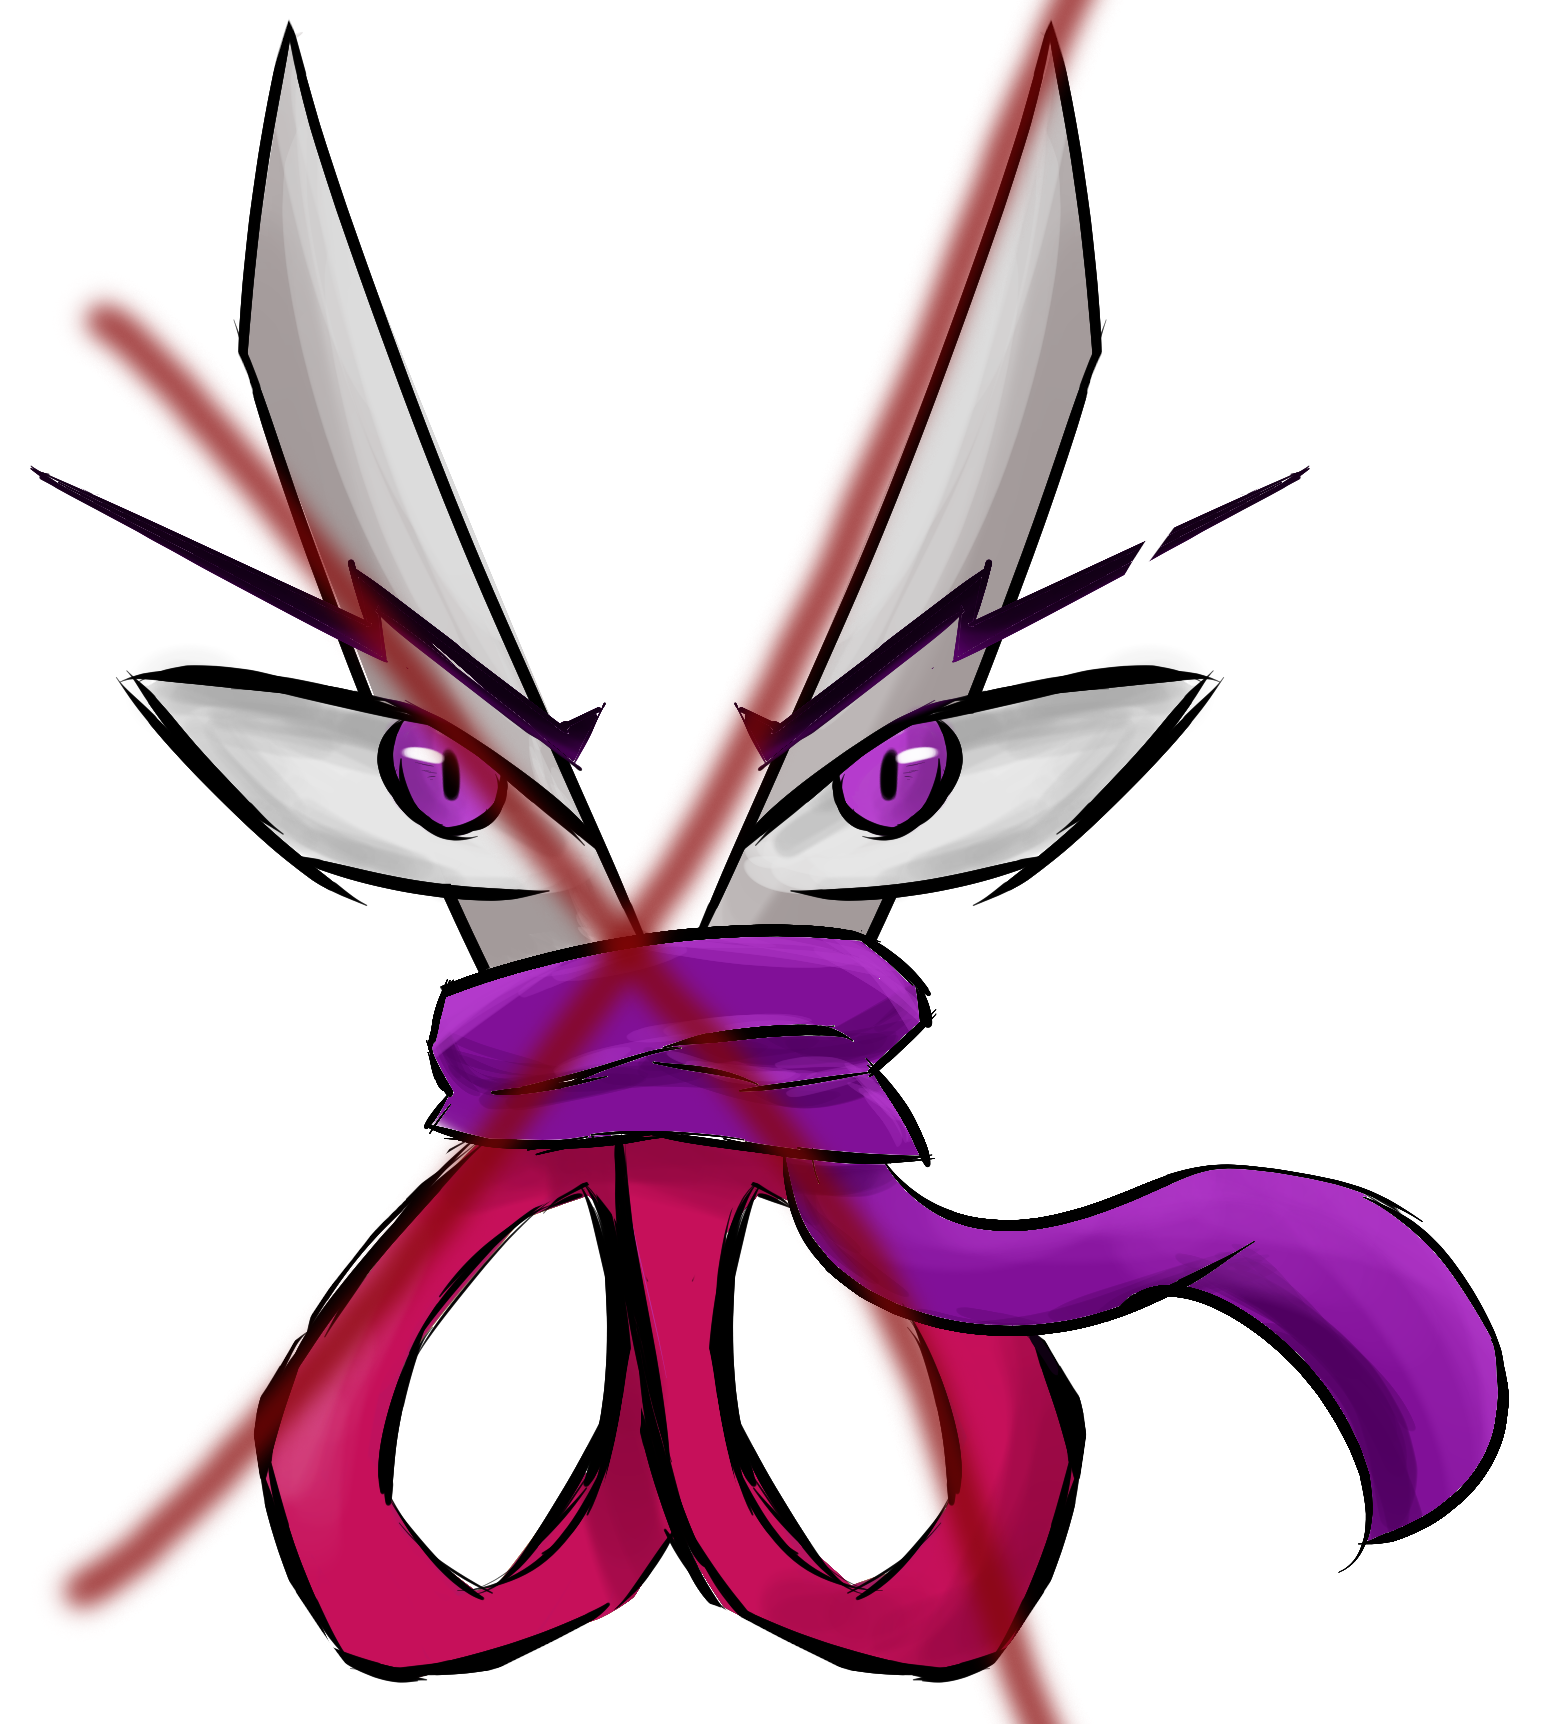
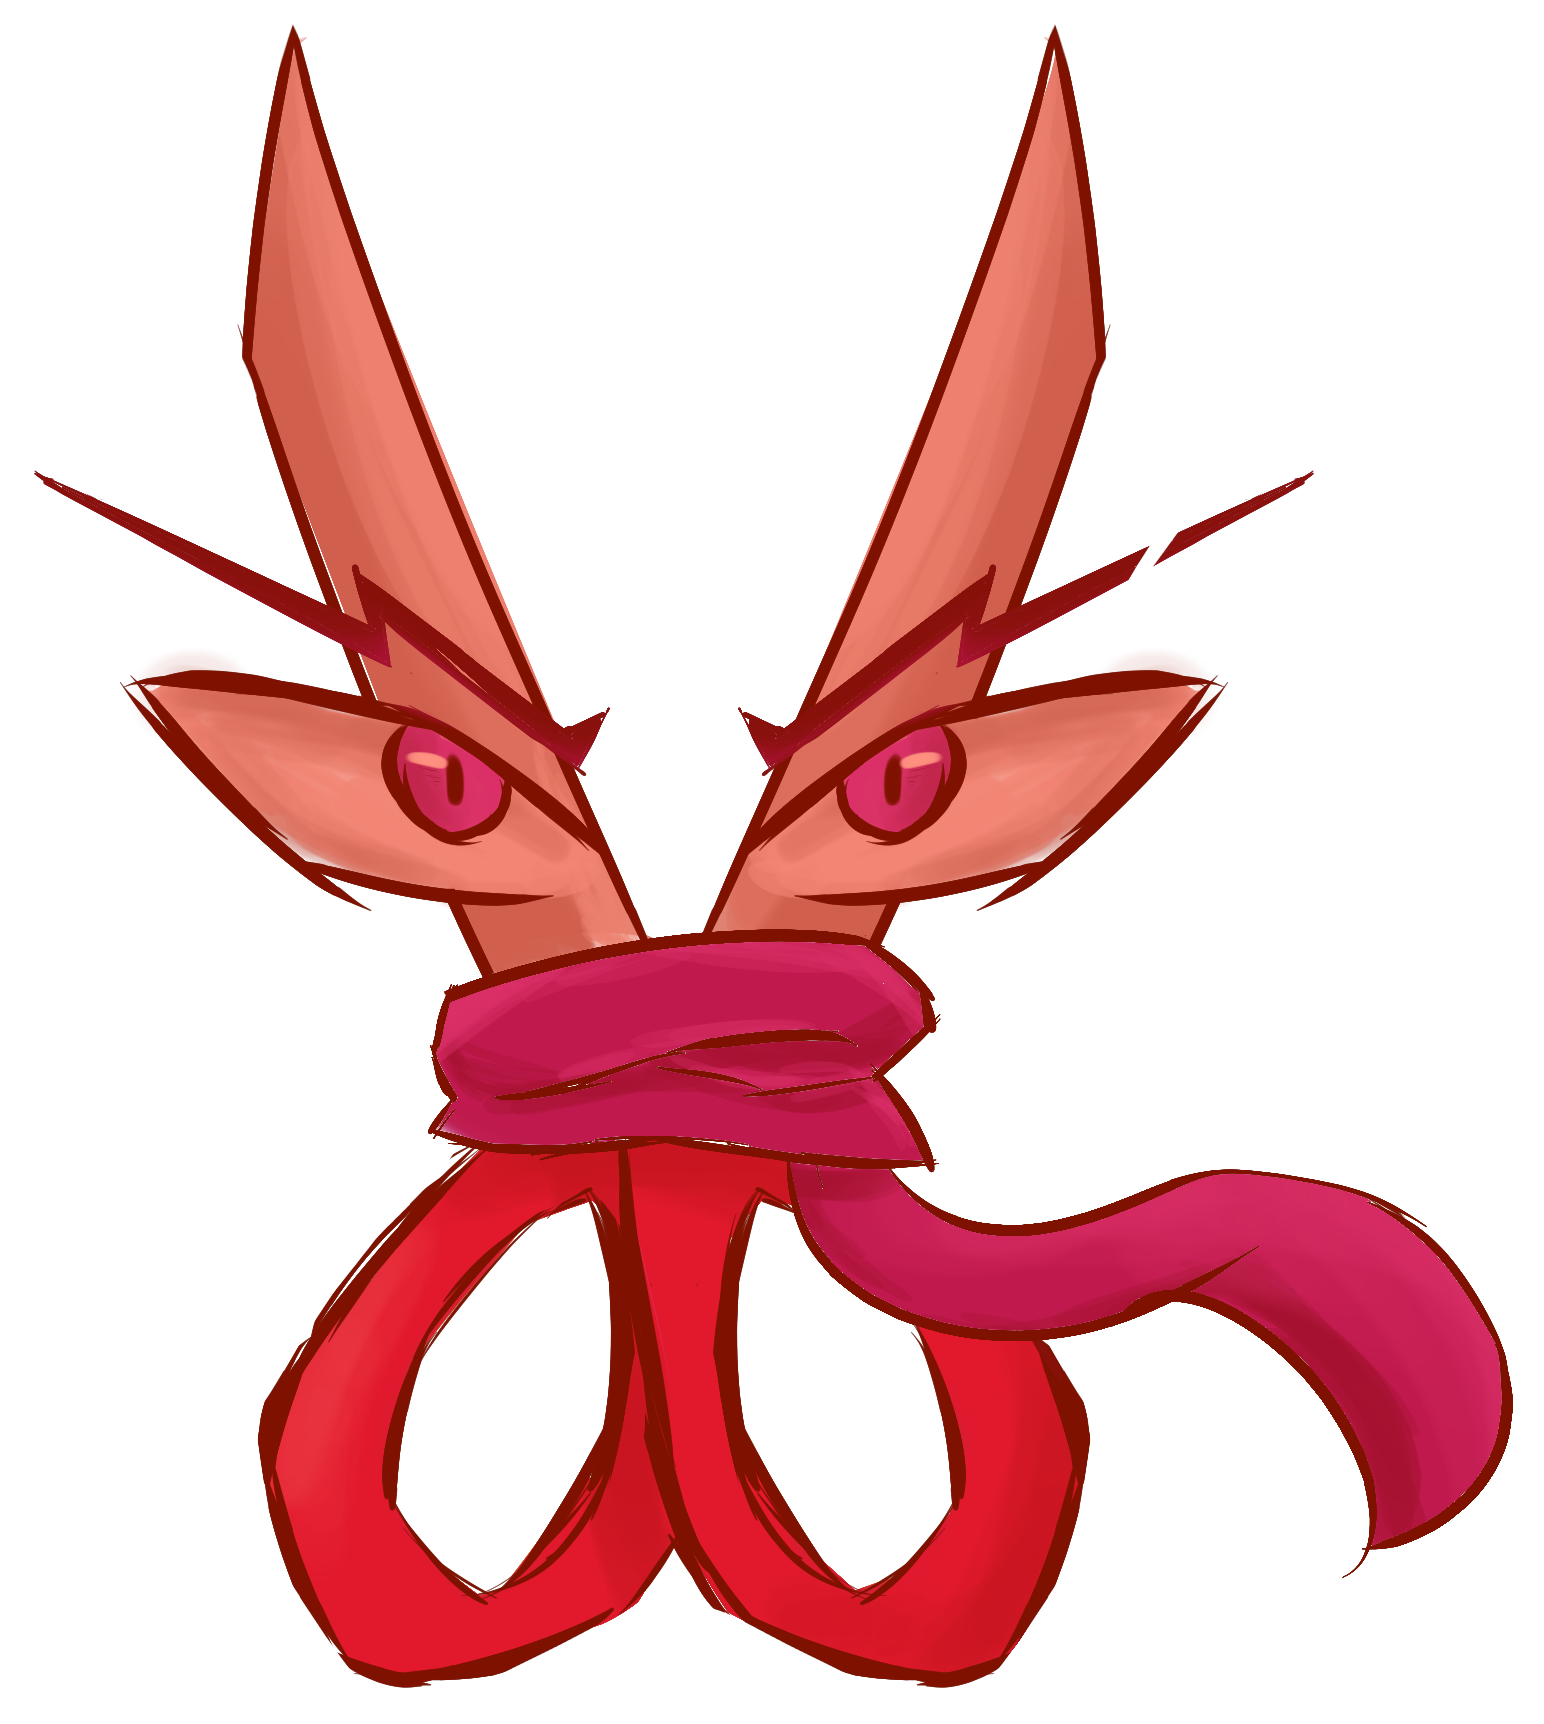
Novos sprites de dano
Adicionado os novos sprites de dano com os personagens com um filtro vermelho.

diff --git a/js/main.js b/js/main.js
@@ -411,7 +411,7 @@ const confirmaPlayer2 = () => {
 const verificaSeJogadoresEstaoProntos = () => {
     const botaoConfirmaP1 = document.querySelector('.left-confirm-character')
     const botaoConfirmaP2 = document.querySelector('.right-confirm-character')
-    const taNaSelecao = document.querySelector(".telainicial").classList.contains("hidden")
+    const taNaSelecao = document.querySelector(".telainicial").classList.contains("hidden") // Retorna um booleano
 
     if(botaoConfirmaP1.innerText === 'Cancelar' && botaoConfirmaP2.innerText === 'Cancelar' && taNaSelecao) renderizarArena()
 }

diff --git a/js/jogo.js b/js/jogo.js
@@ -134,6 +134,7 @@ const vidaMaximaP2 = estado.player2.vida
 const mover = (estado, jogador, direcao) => {
     const velocidade = estado[jogador].personagem === "Pedra" ? 5 : estado[jogador].personagem === "Papel" ? 10 : 7.5
     const novaVelocidade = direcao === 'esquerda' ? -velocidade : velocidade;
+
     return {
         ...estado, 
         [jogador]: { // Importante destacar aqui que fazemos uso Computed Property Keys, basicamente nos permite acessar de maneira dinâmica propriedades dentro de um registro
